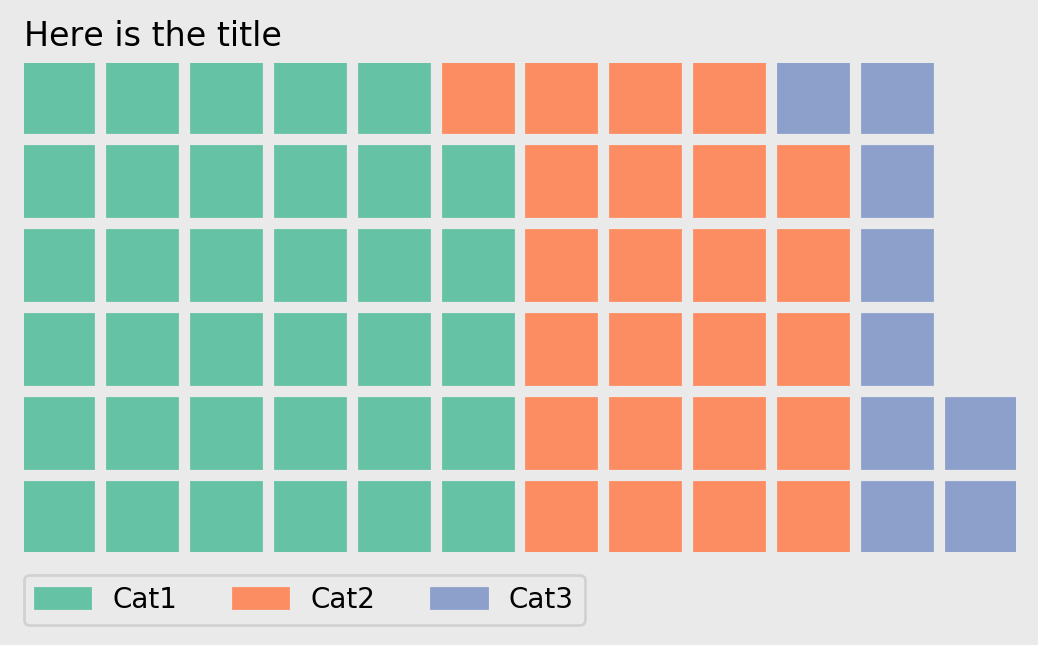
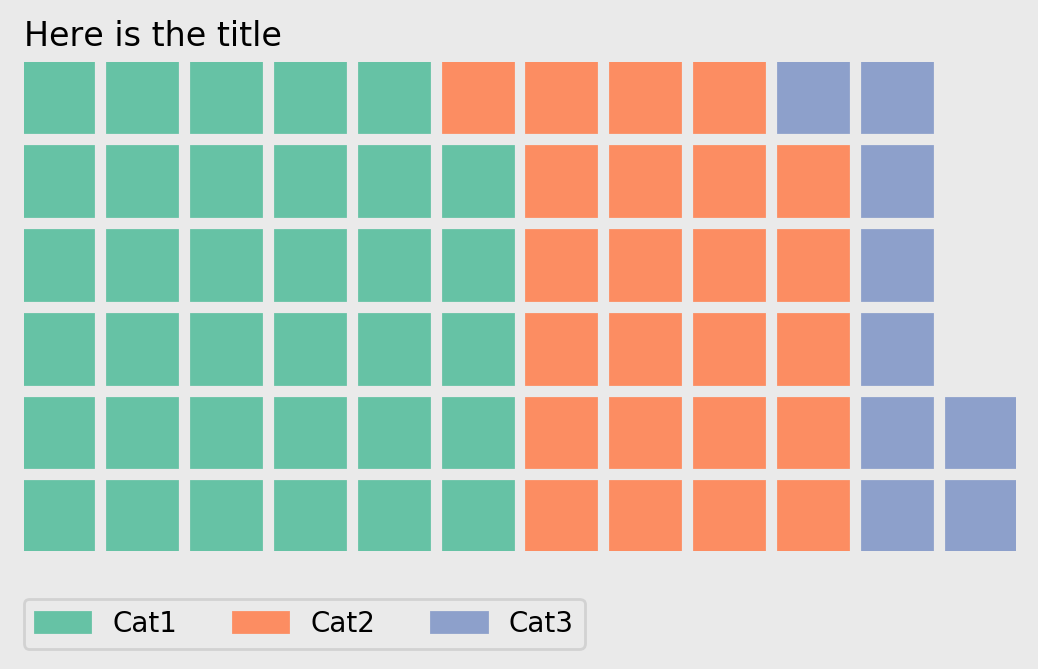
readme

diff --git a/README_images/generate_plots.py b/README_images/generate_plots.py
@@ -21,7 +21,7 @@ fig.savefig(image_folder + 'absolute_block_numbers.png', bbox_inches='tight', dp
 # Add title, legend and background color
 fig = plt.figure(FigureClass=Waffle, rows=6, values={'Cat1': 35, 'Cat2': 24, 'Cat3': 9},
                  title_args={'label': 'Here is the title', 'loc': 'left'},
-                 legend_args={'loc': (0, -0.15), 'facecolor': '#EAEAEA'})
+                 legend_args={'loc': (0, -0.2), 'facecolor': '#EAEAEA'})
 fig.gca().set_facecolor('#EAEAEA')
 fig.set_facecolor('#EAEAEA')
 fig.savefig(image_folder + 'title_and_legend.png', bbox_inches='tight', dpi=200, facecolor='#EAEAEA')

diff --git a/README.rst b/README.rst
@@ -33,7 +33,7 @@ Basic example:
     plt.show()
 
 .. image:: README_images/basic.png
-    :width: 400
+    :scale: 50
     :alt: Pywaffle basic example
 
 Use dictionary; Use absolute value as block number, without defining columns:
@@ -44,7 +44,7 @@ Use dictionary; Use absolute value as block number, without defining columns:
     plt.show()
 
 .. image:: README_images/absolute_block_numbers.png
-    :width: 400
+    :scale: 50
     :alt: Absolute block number and value in dict
 
 Add title, legend and background color:
@@ -58,8 +58,8 @@ Add title, legend and background color:
     fig.set_facecolor('#EAEAEA')
     plt.show()
 
-.. image:: README_images/absolute_block_numbers.png
-    :width: 400
+.. image:: README_images/title_and_legend.png
+    :scale: 50
     :alt: Add title, legend and background color
 
 License
